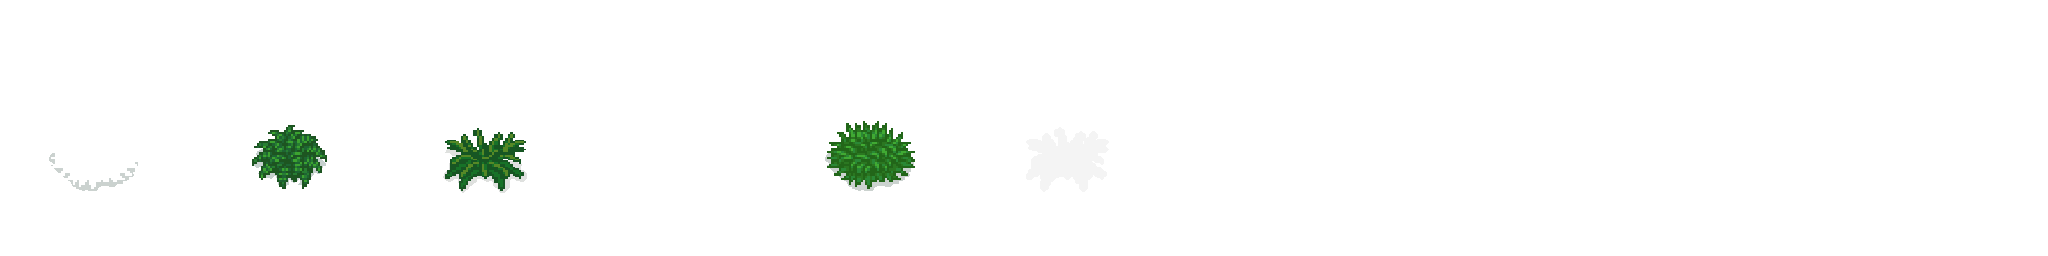
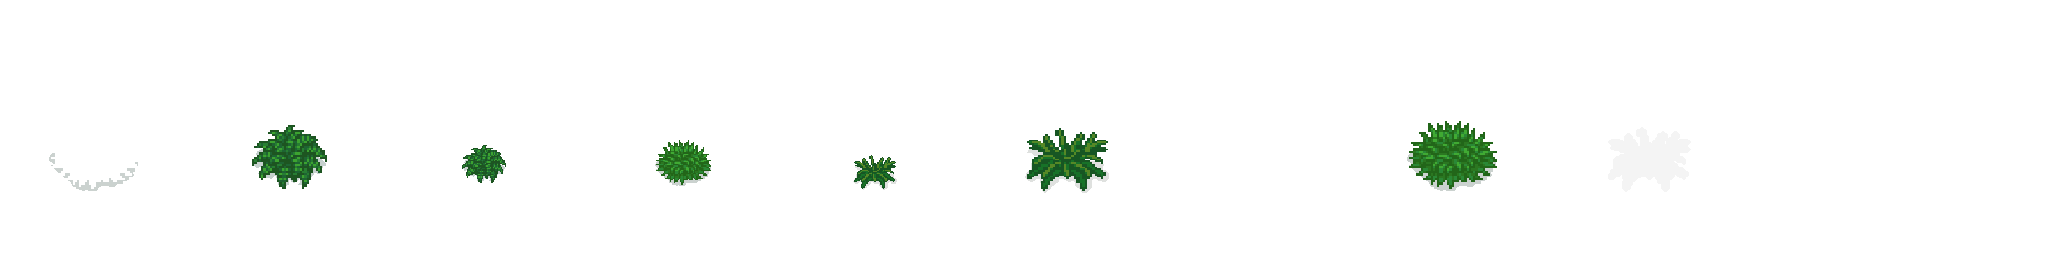
Changed the ferns and the way they spawn to make them random

diff --git a/core/src/com/gamegroup/farmstedfortress/com/farmsteadfortress/entities/plants/FernPlant.java b/core/src/com/gamegroup/farmstedfortress/com/farmsteadfortress/entities/plants/FernPlant.java
@@ -17,19 +17,19 @@ public class FernPlant extends Plant {
     private String fernType;
 
     public FernPlant(float growTime, Vector2 position, int health, int reward, Tile tile, TextureAtlas atlas) {
-        super(growTime, position, health, 0, 0, 0, tile);
+        super((float) (growTime + Math.random() * 5), position, health, 0, 0, 0, tile);
         this.atlas = atlas;
         this.reward = reward;
 
         switch(tile.getTileType()) {
             case GRASS:
-                fernType = "fern_1";
+                fernType = "fern_one";
                 break;
             case GRASS_YELLOW:
-                fernType = "fern_2";
+                fernType = "fern_two";
                 break;
             case GRASS_BLUE:
-                fernType = "fern_3";
+                fernType = "fern_three";
                 break;
             default:
                 break;
@@ -37,37 +37,22 @@ public class FernPlant extends Plant {
 
         initialiseTextures();
         highlightedTexture = atlas.findRegion(fernType + "_highlight");
-        currentStage = GrowthStage.ADULT;
+
+        currentStage = GrowthStage.SEEDLING;
     }
 
     @Override
     protected void initialiseTextures() {
         TextureRegion fernTexture = atlas.findRegion(fernType);
-        textures.put(GrowthStage.SEEDLING, fernTexture);
-        textures.put(GrowthStage.SPROUT, fernTexture);
+        textures.put(GrowthStage.SEEDLING, atlas.findRegion(fernType + "_small"));
+        textures.put(GrowthStage.SPROUT, atlas.findRegion(fernType + "_small"));
         textures.put(GrowthStage.SMALL_PLANT, fernTexture);
         textures.put(GrowthStage.ADULT, fernTexture);
     }
 
-
     @Override
     protected void attack(float delta, Enemy enemy) {
-        // Fern does not attack, leave it empty
-    }
-
-    @Override
-    public void update(float delta, List<Enemy> enemies) {
-        growthTimer += delta;
-        if (growthTimer > growTime) {
-            currentStage = GrowthStage.ADULT;
-            growthTimer = 0;
-        }
-    }
-
-    @Override
-    public void draw(SpriteBatch batch) {
-        TextureRegion currentTexture = isHighlighted ? highlightedTexture : textures.get(currentStage);
-        batch.draw(currentTexture, this.position.x, this.position.y + 10f + Tile.TILE_SIZE / 2f);
+        // Fern does not attack :)
     }
 
     public int harvest(Player player) {

diff --git a/core/src/com/gamegroup/farmstedfortress/com/farmsteadfortress/entities/plants/Plant.java b/core/src/com/gamegroup/farmstedfortress/com/farmsteadfortress/entities/plants/Plant.java
@@ -74,18 +74,17 @@ public abstract class Plant {
     }
 
     public void draw(SpriteBatch batch) {
-        TextureRegion currentTexture = textures.get(currentStage);
-        if (isHighlighted) {
-            batch.setColor(Color.BLUE);
+        if(currentStage != null) {
+            TextureRegion currentTexture = textures.get(currentStage);
+            if (currentTexture != null) {
+                if (isHighlighted) {
+                    batch.setColor(Color.BLUE);
+                }
+                batch.draw(currentTexture, this.position.x, this.position.y + 10f + Tile.TILE_SIZE / 2f);
+                batch.setColor(Color.WHITE);
+            }
         }
-        batch.draw(currentTexture, this.position.x, this.position.y + 10f + Tile.TILE_SIZE / 2f);
-        batch.setColor(Color.WHITE);
     }
-
-
-    protected abstract void initialiseTextures();
-
-    protected abstract void attack(float delta, Enemy enemy);
 
     public enum GrowthStage {
         SEEDLING,
@@ -98,4 +97,8 @@ public abstract class Plant {
         TOMATO,
         SUNFLOWER, FERN
     }
+
+    protected abstract void initialiseTextures();
+
+    protected abstract void attack(float delta, Enemy enemy);
 }

diff --git a/core/src/com/gamegroup/farmstedfortress/com/farmsteadfortress/render/TileMap.java b/core/src/com/gamegroup/farmstedfortress/com/farmsteadfortress/render/TileMap.java
@@ -107,7 +107,7 @@ public class TileMap {
                 System.out.println("Pathfinding timed out, generating a new map...");
             }
         }
-        printMap();
+        //printMap();
         fillMapWithTiles();
         fillMapWithObjects();
     }
